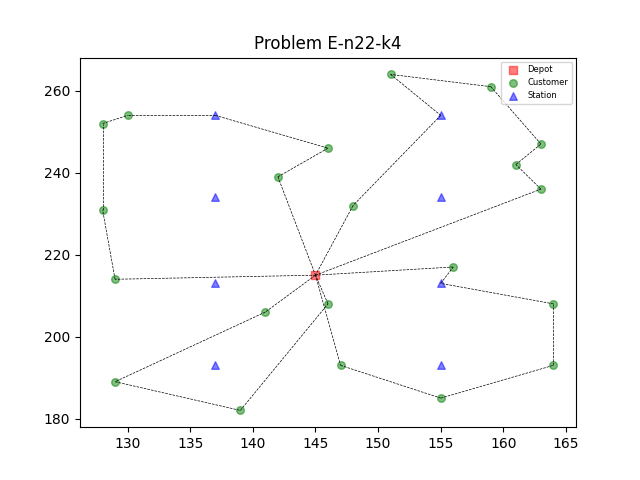
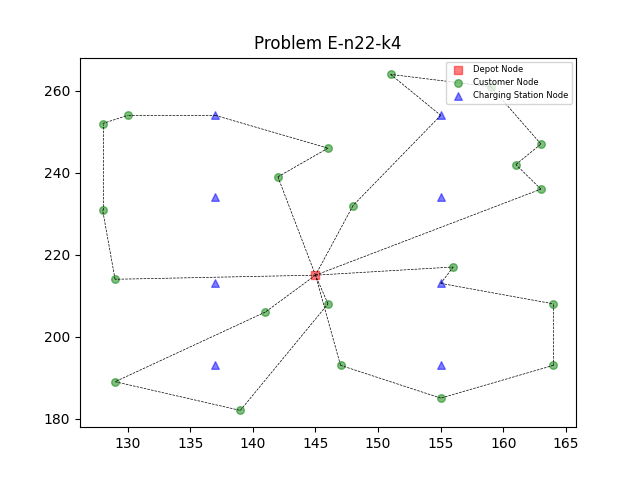
change legend

Changed region(s): [[0.6875, 0.125, 0.9062, 0.2188]]

diff --git a/objects/problem.py b/objects/problem.py
@@ -308,13 +308,13 @@ class Problem():
         for node in self.nodes:
             if node.is_customer():
                 ax.scatter(node.x, node.y, c='green', marker='o',
-                        s=30, alpha=0.5, label="Customer")
+                        s=30, alpha=0.5, label="Customer Node")
             elif node.is_depot():
                 ax.scatter(node.x, node.y, c='red', marker='s',
-                        s=30, alpha=0.5, label="Depot")
+                        s=30, alpha=0.5, label="Depot Node")
             elif node.is_charging_station():
                 ax.scatter(node.x, node.y, c='blue', marker='^',
-                        s=30, alpha=0.5, label="Station")
+                        s=30, alpha=0.5, label="Charging Station Node")
             else:
                 raise ValueError("Invalid node type")
 

diff --git a/evrp.py b/evrp.py
@@ -38,8 +38,8 @@ if __name__ == "__main__":
         }
         
     elif args.algorithm == 'HMAGS':
-        algorithm = HMAGS(population_size=100, generations=150, 
-                          crossover_prob=0.5, mutation_prob=0.75, elite_rate=0.2)
+        algorithm = HMAGS(population_size=100, generations=200, 
+                          crossover_prob=0.85, mutation_prob=0.75, elite_rate=0.2)
         
         kwargs = {
             'problem': problem,
